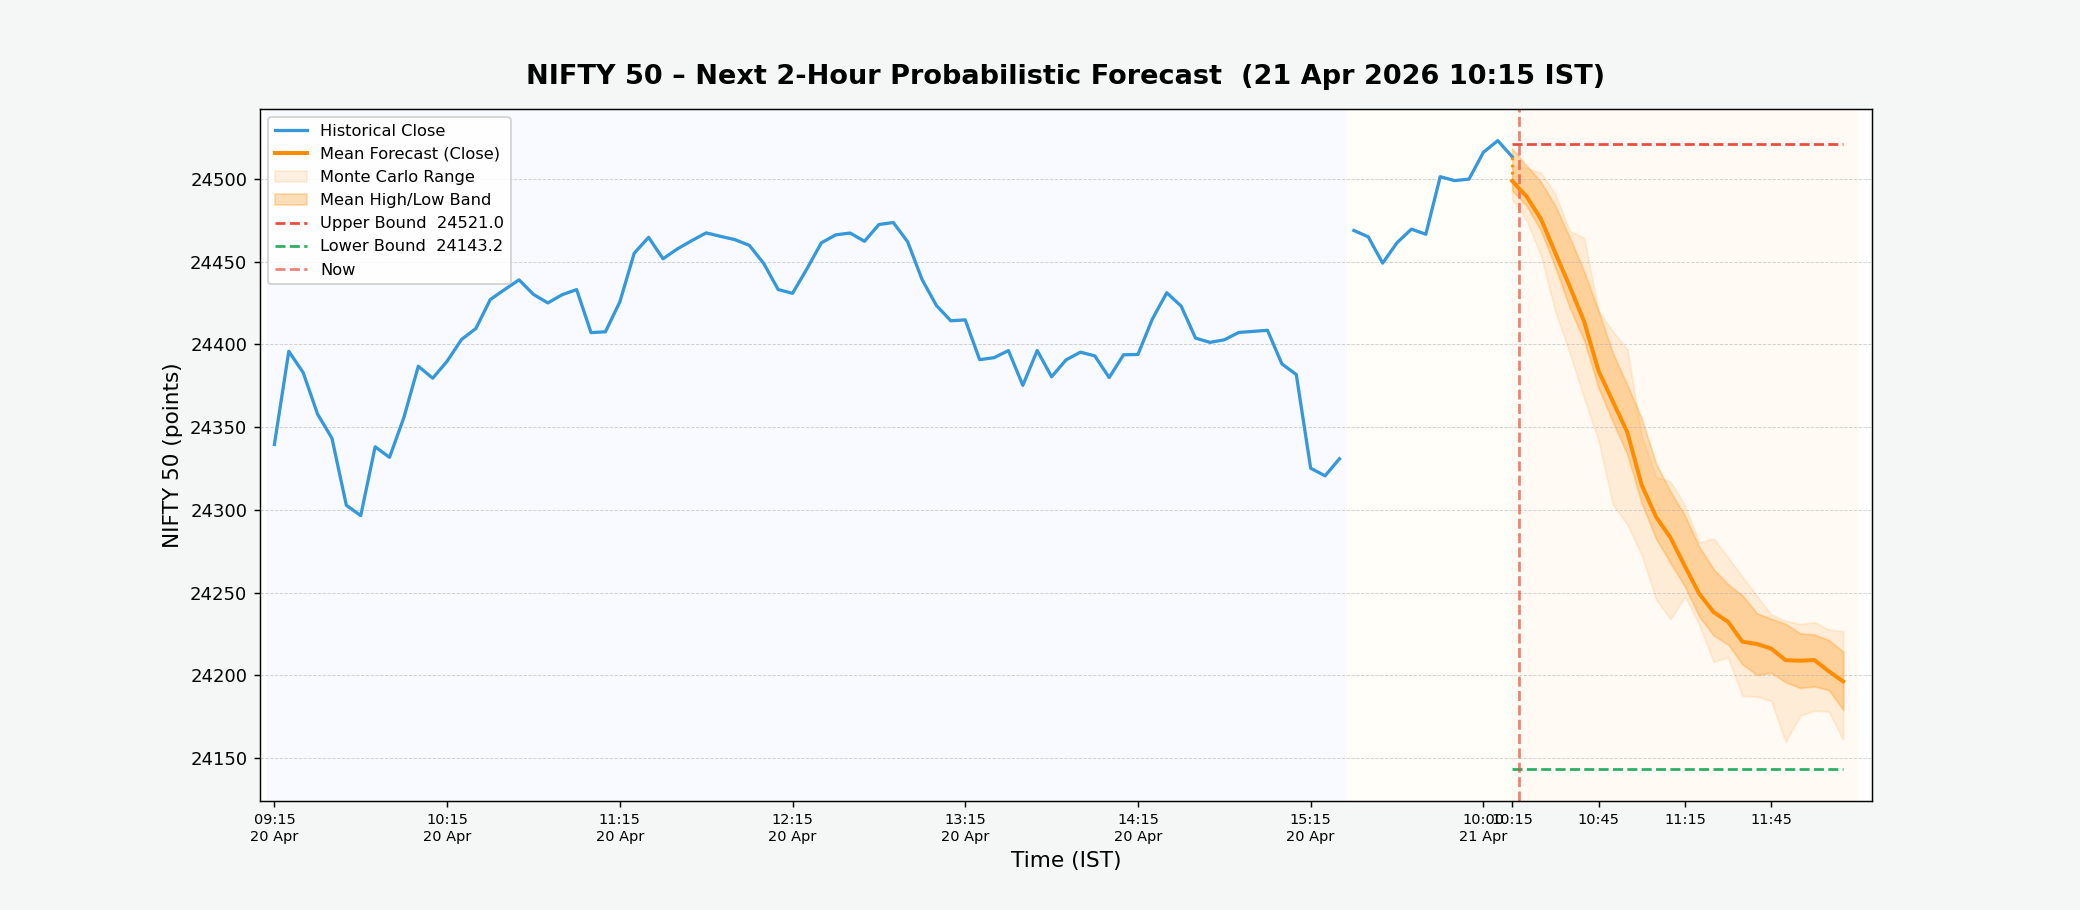
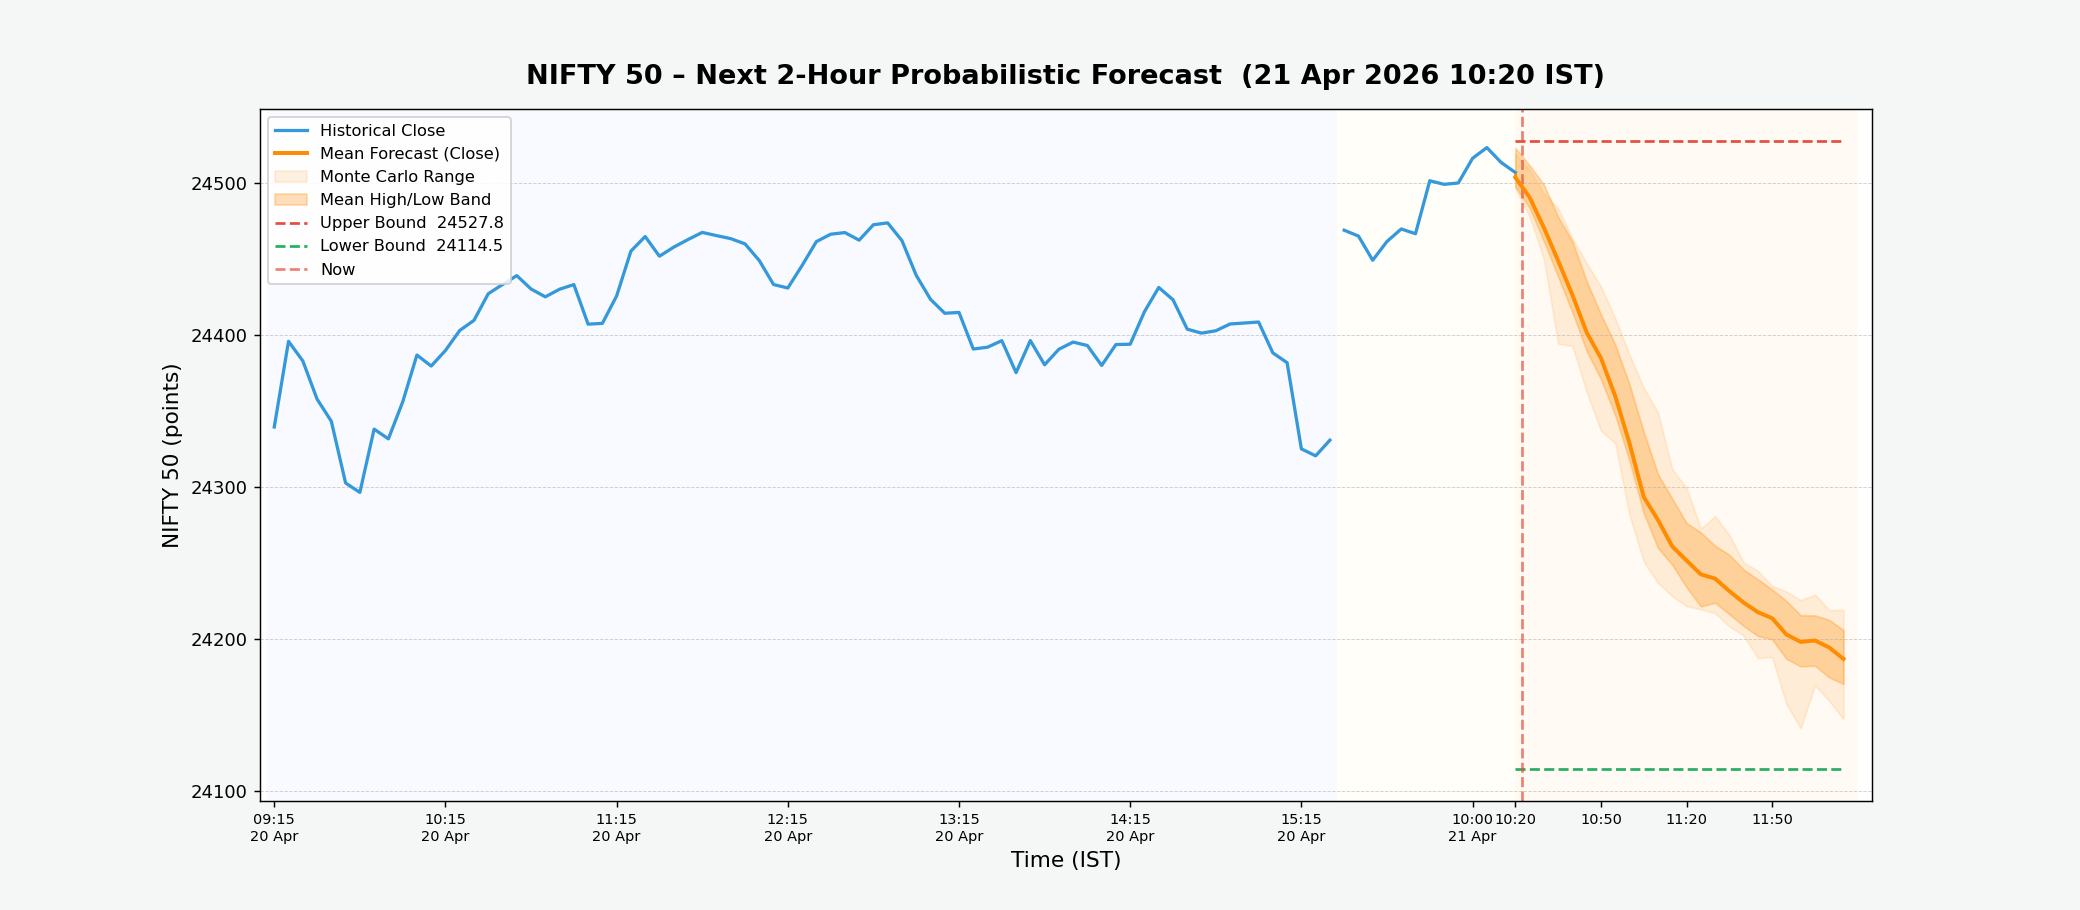
NIFTY forecast update – 2026-04-21 10:20 IST

diff --git a/index.html b/index.html
@@ -24,29 +24,29 @@
 
         <!-- Timestamp bar -->
         <div class="timestamp-bar">
-            <span>Last updated (IST):&nbsp;<strong id="update-time">2026-04-21 10:15:04</strong></span>
+            <span>Last updated (IST):&nbsp;<strong id="update-time">2026-04-21 10:20:03</strong></span>
         </div>
 
         <!-- Metric cards -->
         <div class="metrics-container">
             <div class="metric-card bullish">
                 <div class="metric-label">Bullish Bar Ratio</div>
-                <div class="metric-value" id="upside-prob">12.1%</div>
+                <div class="metric-value" id="upside-prob">12.5%</div>
                 <div class="metric-sub">Next 2h · close &gt; open %</div>
             </div>
             <div class="metric-card upper">
                 <div class="metric-label">Upper Bound</div>
-                <div class="metric-value" id="upper-bound">24521.0</div>
+                <div class="metric-value" id="upper-bound">24527.8</div>
                 <div class="metric-sub">Max predicted high</div>
             </div>
             <div class="metric-card lower">
                 <div class="metric-label">Lower Bound</div>
-                <div class="metric-value" id="lower-bound">24143.2</div>
+                <div class="metric-value" id="lower-bound">24114.5</div>
                 <div class="metric-sub">Min predicted low</div>
             </div>
             <div class="metric-card range">
                 <div class="metric-label">Predicted Range</div>
-                <div class="metric-value" id="pred-range">377.8 pts</div>
+                <div class="metric-value" id="pred-range">413.3 pts</div>
                 <div class="metric-sub">Upper − Lower spread</div>
             </div>
         </div>
